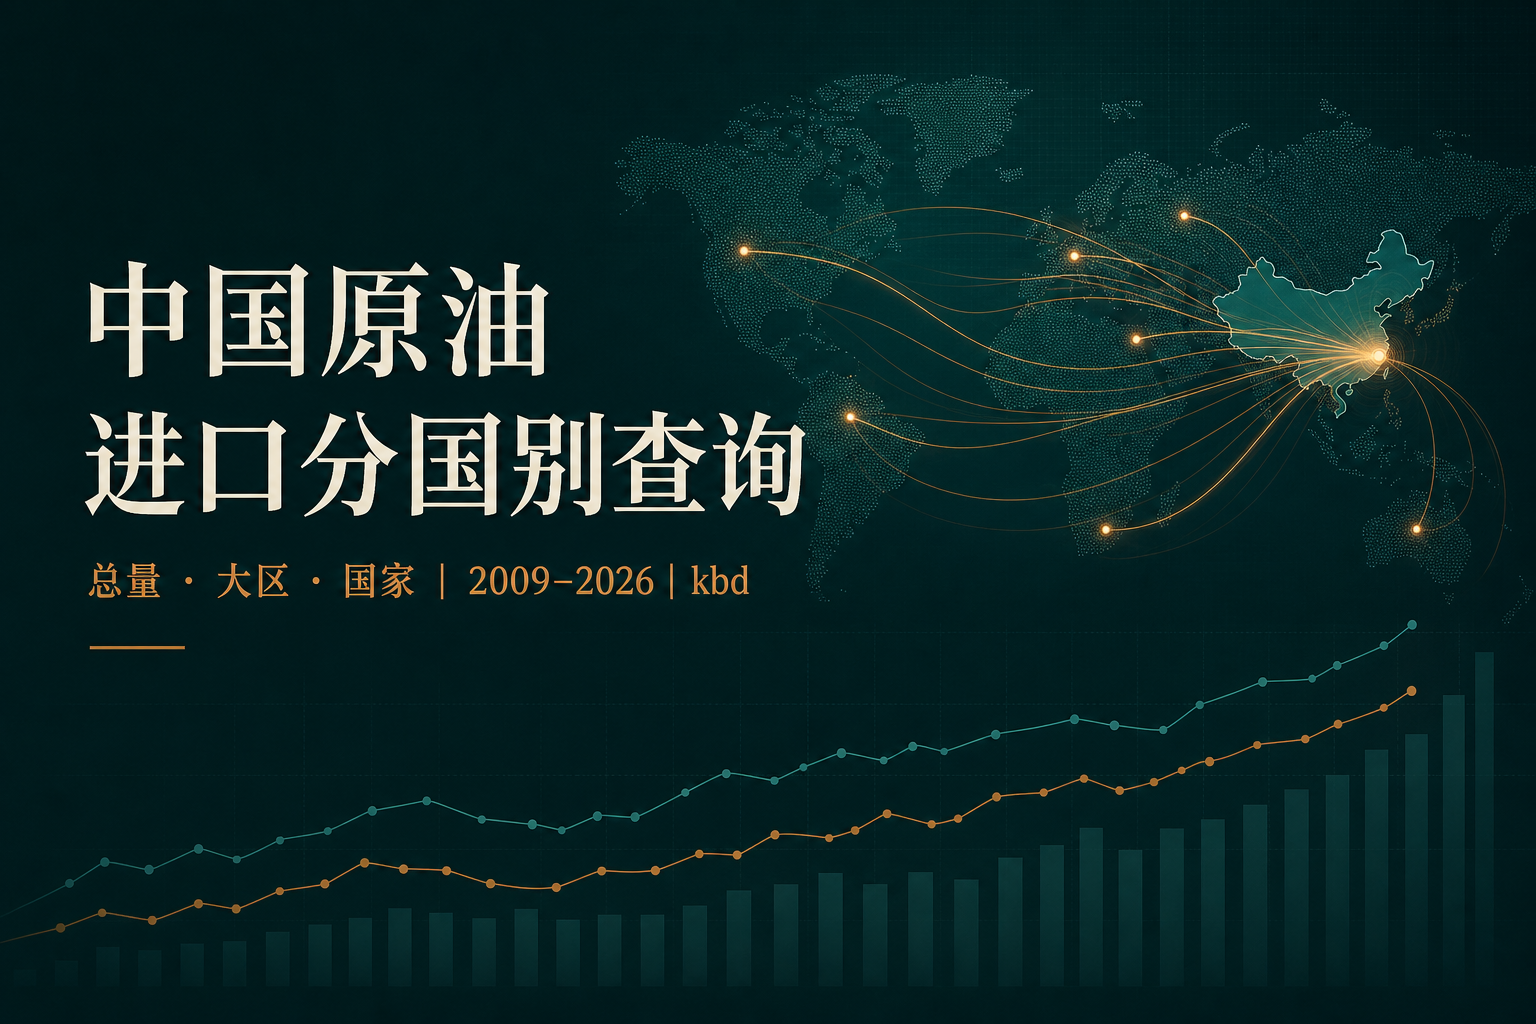
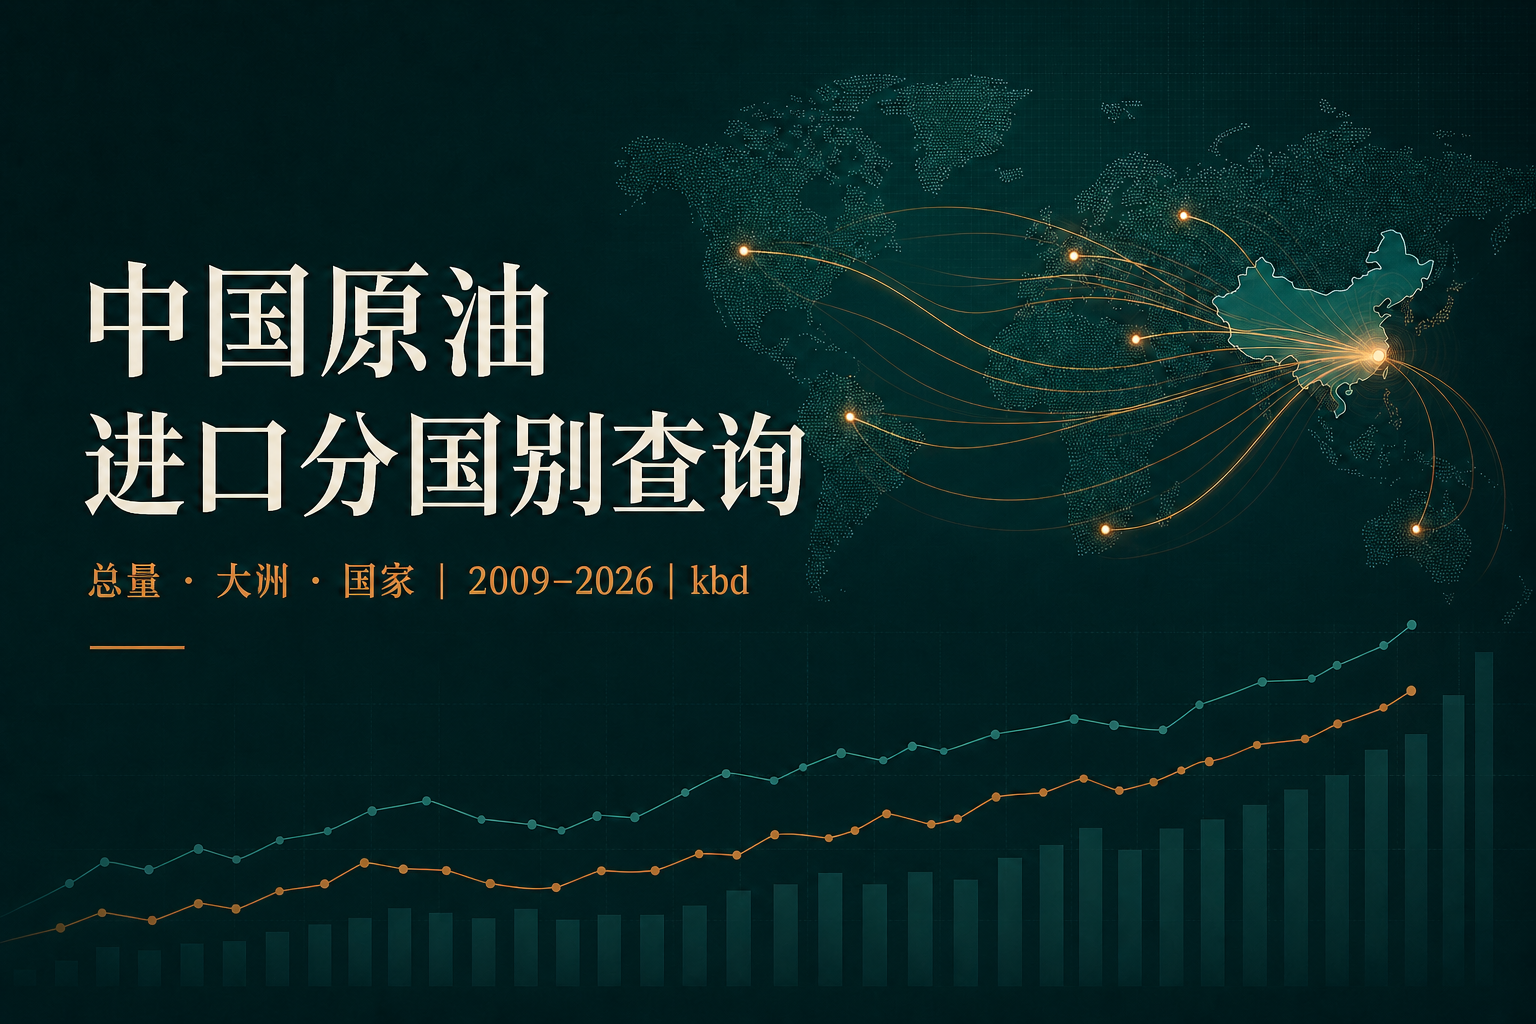
Apply first dashboard review revisions

diff --git a/app/CrudeImportDashboard.tsx b/app/CrudeImportDashboard.tsx
@@ -124,11 +124,6 @@ function average(values: Array<number | null>) {
   return valid.length ? valid.reduce((sum, value) => sum + value, 0) / valid.length : null;
 }
 
-function firstLast(values: Array<number | null>) {
-  const valid = values.filter((value): value is number => value != null);
-  return { first: valid[0] ?? null, last: valid.at(-1) ?? null };
-}
-
 function StatCard({ label, value, note }: { label: string; value: string; note: string }) {
   return (
     <article className="stat-card">
@@ -223,7 +218,7 @@ export function CrudeImportDashboard() {
       })
       .then((payload: Payload) => {
         setData(payload);
-        setStart(payload.dates[Math.max(0, payload.dates.length - 36)]);
+        setStart(payload.dates[0]);
         setEnd(payload.dates.at(-1) || "");
       })
       .catch(() => setError("数据加载失败，请刷新页面后重试。"));
@@ -251,12 +246,7 @@ export function CrudeImportDashboard() {
   const rangeDates = data?.dates.slice(startIndex, endIndex + 1) || [];
   const rangeValues = selected?.values.slice(startIndex, endIndex + 1) || [];
   const avg = average(rangeValues);
-  const { first, last } = firstLast(rangeValues);
   const validValues = rangeValues.filter((value): value is number => value != null);
-  const peak = validValues.length ? Math.max(...validValues) : null;
-  const change = first != null && last != null && first !== 0 ? ((last - first) / first) * 100 : null;
-
-  const totalSeries = data?.series.find((item) => item.level === "total") || null;
   const ranking = useMemo(() => {
     if (!data || !selected) return [];
     let candidates: Series[];
@@ -284,12 +274,11 @@ export function CrudeImportDashboard() {
     <main className="dashboard-shell">
       <header className="hero">
         <div>
-          <p className="eyebrow">CHINA CRUDE IMPORT EXPLORER</p>
+          <p className="eyebrow">CHINA CRUDE IMPORT</p>
           <h1>中国原油进口分国别查询</h1>
-          <p className="hero-copy">从总量到大区，再下钻至具体国家，查看月度进口量与来源结构。</p>
         </div>
         <div className="freshness">
-          <span>最新数据</span>
+          <span>数据日期</span>
           <strong>{data.metadata.latestMonth}</strong>
           <small>单位：kbd（千桶/日）</small>
         </div>
@@ -301,14 +290,14 @@ export function CrudeImportDashboard() {
           <div className="segmented">
             {(["total", "continent", "country"] as Level[]).map((item) => (
               <button key={item} className={level === item ? "active" : ""} onClick={() => setLevel(item)} type="button">
-                {item === "total" ? "总进口量" : item === "continent" ? "按大区" : "按国家"}
+                {item === "total" ? "总进口量" : item === "continent" ? "按大洲" : "按国家"}
               </button>
             ))}
           </div>
         </div>
         {level !== "total" && (
           <label>
-            <span className="field-label">大区</span>
+            <span className="field-label">大洲选择</span>
             <select value={continent} onChange={(event) => setContinent(event.target.value)}>
               {continents.map((item) => <option key={item.id} value={item.name}>{displayName(item)}</option>)}
             </select>
@@ -316,8 +305,8 @@ export function CrudeImportDashboard() {
         )}
         {level === "country" && (
           <label className="country-field">
-            <span className="field-label">国家 / 地区</span>
-            <select value={country} onChange={(event) => setCountry(event.target.value)}>
+            <span className="visually-hidden">国家 / 地区</span>
+            <select aria-label="国家或地区" value={country} onChange={(event) => setCountry(event.target.value)}>
               {countries.map((item) => <option key={item.id} value={item.name}>{displayName(item)}</option>)}
             </select>
           </label>
@@ -338,7 +327,7 @@ export function CrudeImportDashboard() {
 
       <section className="selection-title">
         <div>
-          <span>{level === "total" ? "全国口径" : level === "continent" ? "大区口径" : CONTINENT_LABELS[selected.continent || ""]}</span>
+          <span>{level === "total" ? "全国口径" : level === "continent" ? "大洲口径" : CONTINENT_LABELS[selected.continent || ""]}</span>
           <h2>{selectedLabel}</h2>
         </div>
         <p>{periodLabel}</p>
@@ -346,12 +335,9 @@ export function CrudeImportDashboard() {
 
       <section className="stat-grid">
         <StatCard label="期间月均" value={`${fmt(avg)} kbd`} note={`${validValues.length} 个月有效值`} />
-        <StatCard label="期末值" value={`${fmt(last)} kbd`} note={rangeDates.at(-1) || "—"} />
-        <StatCard label="期间峰值" value={`${fmt(peak)} kbd`} note="所选时段内最高月" />
-        <StatCard label="首末变化" value={change == null ? "—" : `${change >= 0 ? "+" : ""}${fmt(change)}%`} note="首个与末个有效值相比" />
       </section>
 
-      <section className="analysis-grid">
+      <section className={`analysis-grid ${level === "country" ? "single" : ""}`}>
         <article className="panel chart-panel">
           <div className="panel-heading">
             <div><span>MONTHLY TREND</span><h3>月度进口趋势</h3></div>
@@ -360,9 +346,9 @@ export function CrudeImportDashboard() {
           <TrendChart dates={rangeDates} values={rangeValues} label={selectedLabel} />
         </article>
 
-        <article className="panel ranking-panel">
+        {level !== "country" && <article className="panel ranking-panel">
           <div className="panel-heading">
-            <div><span>PERIOD AVERAGE</span><h3>{level === "total" ? "大区月均排名" : level === "continent" ? "国家月均排名" : "所属大区对比"}</h3></div>
+            <div><span>PERIOD AVERAGE</span><h3>{level === "total" ? "大洲月均排名" : "国家月均排名"}</h3></div>
             <em>kbd</em>
           </div>
           <div className="ranking-list">
@@ -385,7 +371,7 @@ export function CrudeImportDashboard() {
               </button>
             ))}
           </div>
-        </article>
+        </article>}
       </section>
 
       <section className="panel table-panel">
@@ -395,20 +381,20 @@ export function CrudeImportDashboard() {
         </div>
         <div className="table-scroll">
           <table>
-            <thead><tr><th>月份</th><th>{selectedLabel}</th><th>环比</th><th>占全国进口比重</th><th>数据状态</th></tr></thead>
+            <thead><tr><th>月份</th><th>{selectedLabel}</th><th>环比</th><th>同比</th></tr></thead>
             <tbody>
               {rangeDates.map((date, index) => {
                 const value = rangeValues[index];
                 const previous = index ? rangeValues[index - 1] : null;
                 const mom = value != null && previous != null && previous !== 0 ? ((value - previous) / previous) * 100 : null;
-                const totalValue = totalSeries?.values[startIndex + index] ?? null;
-                const share = value != null && totalValue != null && totalValue !== 0 ? (value / totalValue) * 100 : null;
+                const yearAgoIndex = startIndex + index - 12;
+                const yearAgo = yearAgoIndex >= 0 ? selected.values[yearAgoIndex] : null;
+                const yoy = value != null && yearAgo != null && yearAgo !== 0 ? ((value - yearAgo) / yearAgo) * 100 : null;
                 return (
                   <tr key={date}>
                     <td>{date}</td><td className="numeric">{fmt(value)}</td>
                     <td className={`numeric ${mom != null && mom < 0 ? "negative" : "positive"}`}>{mom == null ? "—" : `${mom >= 0 ? "+" : ""}${fmt(mom)}%`}</td>
-                    <td className="numeric">{share == null ? "—" : `${fmt(share)}%`}</td>
-                    <td><span className={value == null ? "status missing" : "status"}>{value == null ? "未发布" : "已发布"}</span></td>
+                    <td className={`numeric ${yoy != null && yoy < 0 ? "negative" : "positive"}`}>{yoy == null ? "—" : `${yoy >= 0 ? "+" : ""}${fmt(yoy)}%`}</td>
                   </tr>
                 );
               }).reverse()}
@@ -417,10 +403,6 @@ export function CrudeImportDashboard() {
         </div>
       </section>
 
-      <footer>
-        <p><strong>口径说明：</strong>数值来自工作簿 “Crude imports — Volume” 页；大区和总量采用表内原始汇总行，空白单元格显示为“未发布”，0 保留为已报告的零值。源表中南非 2017-07（-2 kbd）与 2017-08（-1 kbd）的负值按原值保留。</p>
-        <p>{data.metadata.compiled} {data.metadata.sources}</p>
-      </footer>
     </main>
   );
 }

diff --git a/app/globals.css b/app/globals.css
@@ -36,12 +36,11 @@ button, select { font: inherit; }
 }
 .eyebrow { margin: 0 0 12px; color: #90c0bb; font-size: 12px; font-weight: 700; letter-spacing: .2em; }
 .hero h1 { margin: 0; font-size: clamp(30px, 4vw, 48px); letter-spacing: -.04em; line-height: 1.12; }
-.hero-copy { max-width: 680px; margin: 14px 0 0; color: #c9dad7; font-size: 16px; }
 .freshness { min-width: 180px; border-left: 1px solid rgba(255,255,255,.22); padding-left: 24px; }
 .freshness span, .freshness small { display: block; color: #a9c8c4; font-size: 12px; }
 .freshness strong { display: block; margin: 5px 0; font: 600 26px/1.2 Georgia, serif; }
 
-.filter-panel, .selection-title, .stat-grid, .analysis-grid, .table-panel, footer {
+.filter-panel, .selection-title, .stat-grid, .analysis-grid, .table-panel {
   width: min(1440px, calc(100% - 56px));
   margin-left: auto;
   margin-right: auto;
@@ -65,6 +64,7 @@ button, select { font: inherit; }
 .field-label { color: var(--muted); font-size: 12px; font-weight: 700; letter-spacing: .04em; }
 select { height: 44px; width: 100%; border: 1px solid #cbd5d0; border-radius: 6px; padding: 0 35px 0 12px; background: white; color: var(--ink); }
 select:focus, button:focus-visible { outline: 3px solid rgba(45,119,116,.2); outline-offset: 2px; }
+.visually-hidden { position: absolute; width: 1px; height: 1px; padding: 0; margin: -1px; overflow: hidden; clip: rect(0, 0, 0, 0); white-space: nowrap; border: 0; }
 .segmented { display: flex; height: 44px; padding: 3px; border: 1px solid #cbd5d0; border-radius: 6px; background: #f6f8f6; }
 .segmented button { flex: 1; border: 0; border-radius: 4px; background: transparent; color: var(--muted); cursor: pointer; }
 .segmented button.active { background: var(--teal); color: white; box-shadow: 0 2px 5px rgba(45,119,116,.2); }
@@ -74,13 +74,14 @@ select:focus, button:focus-visible { outline: 3px solid rgba(45,119,116,.2); out
 .selection-title h2 { margin: 5px 0 0; font-size: clamp(24px, 3vw, 34px); letter-spacing: -.03em; }
 .selection-title p { margin: 0; color: var(--muted); font: 15px/1.3 Georgia, serif; }
 
-.stat-grid { display: grid; grid-template-columns: repeat(4, 1fr); gap: 14px; }
+.stat-grid { display: grid; grid-template-columns: minmax(260px, 380px); gap: 14px; }
 .stat-card { min-height: 125px; padding: 20px; border: 1px solid var(--line); border-top: 3px solid var(--teal); background: var(--paper); }
 .stat-card:nth-child(3) { border-top-color: var(--orange); }
 .stat-card span, .stat-card small { display: block; color: var(--muted); font-size: 12px; }
 .stat-card strong { display: block; margin: 11px 0 8px; font: 600 clamp(23px, 2.3vw, 33px)/1 Georgia, serif; }
 
 .analysis-grid { display: grid; grid-template-columns: minmax(0, 1.85fr) minmax(320px, .85fr); gap: 14px; margin-top: 14px; }
+.analysis-grid.single { grid-template-columns: 1fr; }
 .panel { border: 1px solid var(--line); background: var(--paper); }
 .panel-heading { min-height: 72px; display: flex; align-items: center; justify-content: space-between; gap: 16px; padding: 15px 18px; border-bottom: 1px solid var(--line); }
 .panel-heading h3 { margin: 4px 0 0; font-size: 18px; }
@@ -116,9 +117,6 @@ td.numeric { text-align: right; font-variant-numeric: tabular-nums; font-family:
 .status.missing { color: #9a7b65; }
 .status.missing::before { background: #c6a78f; }
 
-footer { margin-top: 18px; padding: 18px 0; color: var(--muted); font-size: 12px; line-height: 1.7; }
-footer p { margin: 2px 0; }
-
 @media (max-width: 1100px) {
   .filter-panel { flex-wrap: wrap; }
   .filter-panel label, .scope-control { min-width: calc(33.333% - 10px); }
@@ -128,7 +126,7 @@ footer p { margin: 2px 0; }
 @media (max-width: 760px) {
   .hero { min-height: 220px; align-items: flex-start; flex-direction: column; padding: 28px 20px 45px; }
   .freshness { border-left: 0; border-top: 1px solid rgba(255,255,255,.22); padding: 13px 0 0; }
-  .filter-panel, .selection-title, .stat-grid, .analysis-grid, .table-panel, footer { width: calc(100% - 24px); }
+  .filter-panel, .selection-title, .stat-grid, .analysis-grid, .table-panel { width: calc(100% - 24px); }
   .filter-panel label, .scope-control { min-width: 100%; }
   .stat-grid { grid-template-columns: repeat(2, 1fr); }
   .selection-title { align-items: flex-start; flex-direction: column; }

diff --git a/app/layout.tsx b/app/layout.tsx
@@ -3,16 +3,16 @@ import "./globals.css";
 
 export const metadata: Metadata = {
   title: "中国原油进口分国别查询",
-  description: "按总量、大区和国家查询中国月度原油进口量（kbd）",
+  description: "按总量、大洲和国家查询中国月度原油进口量（kbd）",
   openGraph: {
     title: "中国原油进口分国别查询",
-    description: "总量 · 大区 · 国家 | 2009–2026 | kbd",
+    description: "总量 · 大洲 · 国家 | 2009–2026 | kbd",
     images: [{ url: "/og.png", width: 1536, height: 1024, alt: "中国原油进口分国别查询" }],
   },
   twitter: {
     card: "summary_large_image",
     title: "中国原油进口分国别查询",
-    description: "总量 · 大区 · 国家 | 2009–2026 | kbd",
+    description: "总量 · 大洲 · 国家 | 2009–2026 | kbd",
     images: ["/og.png"],
   },
 };

diff --git a/app/page.tsx b/app/page.tsx
@@ -3,7 +3,7 @@ import { CrudeImportDashboard } from "./CrudeImportDashboard";
 
 export const metadata: Metadata = {
   title: "中国原油进口分国别查询",
-  description: "按总量、大区和国家查询中国月度原油进口量（kbd）",
+  description: "按总量、大洲和国家查询中国月度原油进口量（kbd）",
 };
 
 export default function Home() {